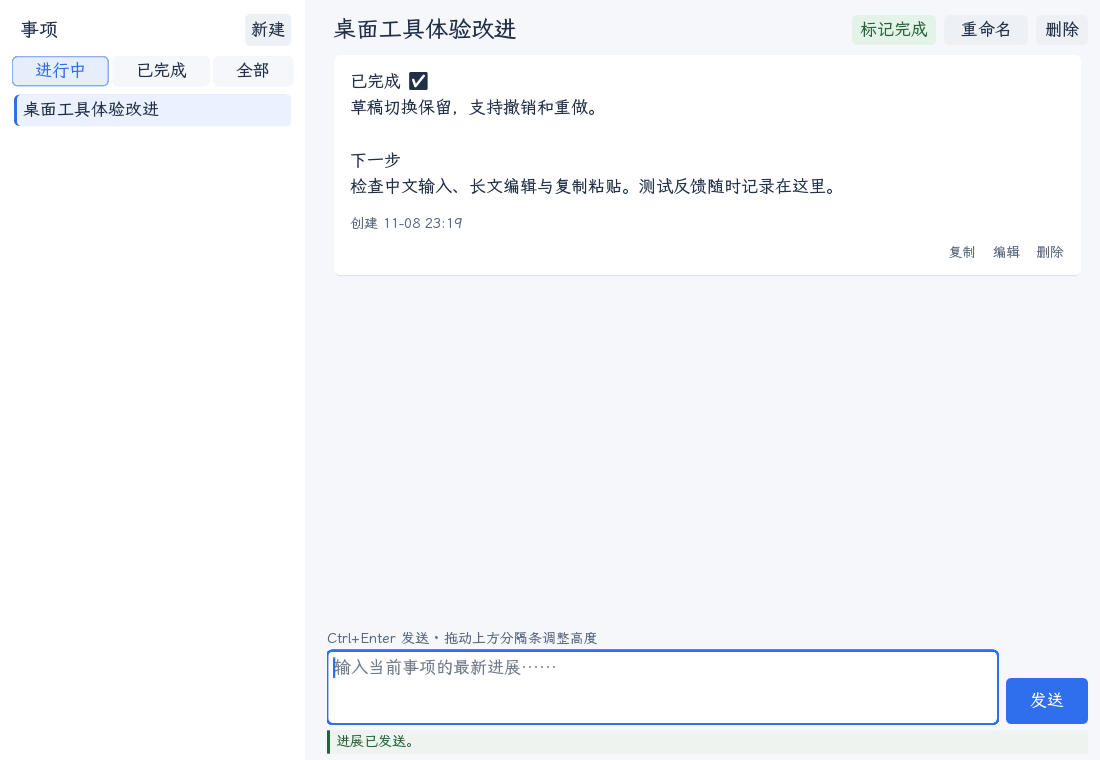
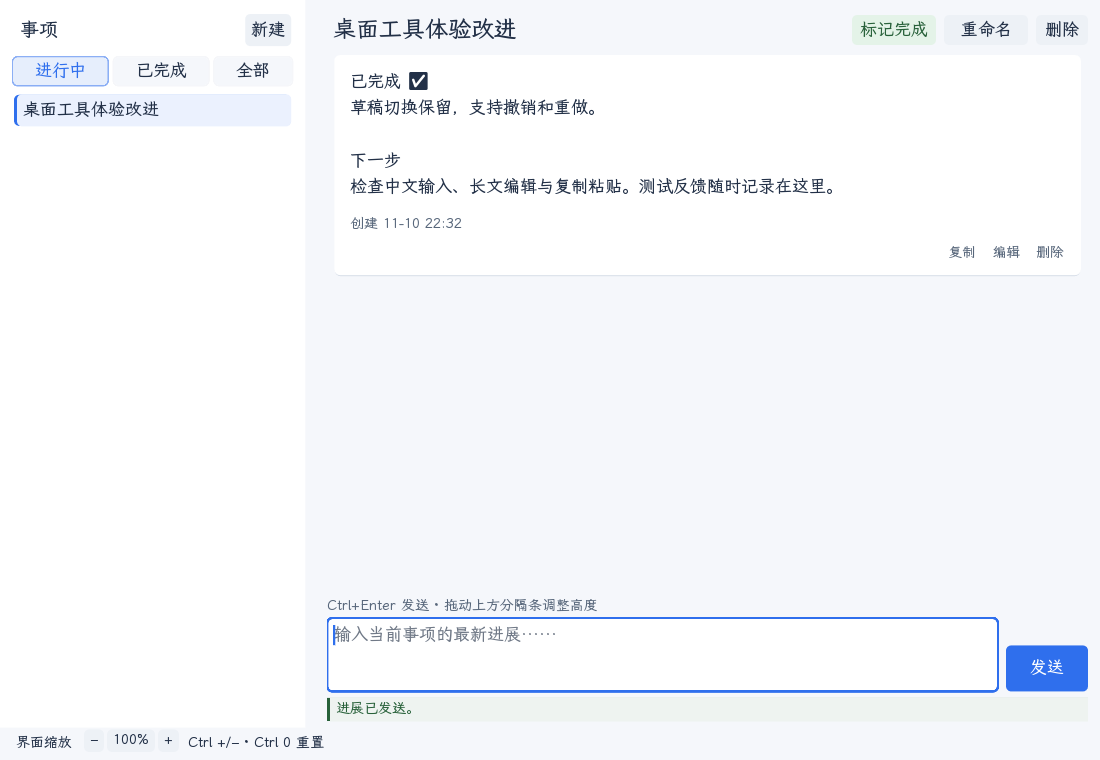
Add global UI zoom shortcuts, limits and reset (#17)
* Make UI zoom shortcuts work globally with bounds and reset

* Measure filter labels to keep every zoom step readable

---------

diff --git a/README.md b/README.md
@@ -37,6 +37,7 @@ zig build test
 - **快捷提交**：新增或编辑进展时按 `Ctrl + Enter`（macOS 为 `Cmd + Enter`）。
 - **撤销与重做**：输入、编辑进展或重命名时，`Ctrl + Z` 撤销，`Ctrl + Y` / `Ctrl + Shift + Z` 重做（macOS 使用 `Cmd`）。各事项草稿保留各自的历史，发送成功或结束编辑后重置。
 - **调整输入区**：上下拖动进展记录与输入框之间的分隔条，即可调整输入区高度。
+- **界面缩放**：`Ctrl + 加号/减号`（支持主键盘和小键盘）调整整体大小，`Ctrl + 0` 恢复 100%；也可使用底部缩放按钮，范围为 80%～150%（macOS 使用 `Cmd`）。
 - **事项草稿**：运行期间，切换、新建、筛选或完成事项会保留各事项未发送的内容；发送成功或删除对应事项后清空。退出程序后不保留草稿。
 - **选择、复制与编辑**：双击正文选词，拖动选择后可按 `Ctrl + C` 复制；每条记录的“复制”按钮复制整条正文，“编辑”按钮进入修改。
 - **取消操作**：重命名、编辑或删除确认时按 `Esc`，未发送的进展草稿不会被清空。

diff --git a/packaging/windows/README.md b/packaging/windows/README.md
@@ -11,6 +11,7 @@
 
 运行期间，切换事项会保留各自的草稿；从托盘退出程序后不保留草稿。
 编辑文字时，`Ctrl + Z` 撤销，`Ctrl + Y` 或 `Ctrl + Shift + Z` 重做；`Ctrl + Enter` 提交进展。
+`Ctrl + 加号/减号` 调整整体界面大小（支持小键盘），`Ctrl + 0` 重置；底部按钮也可调整，范围为 80%～150%。
 
 数据保存在用户目录中，Windows 上通常为：
 
